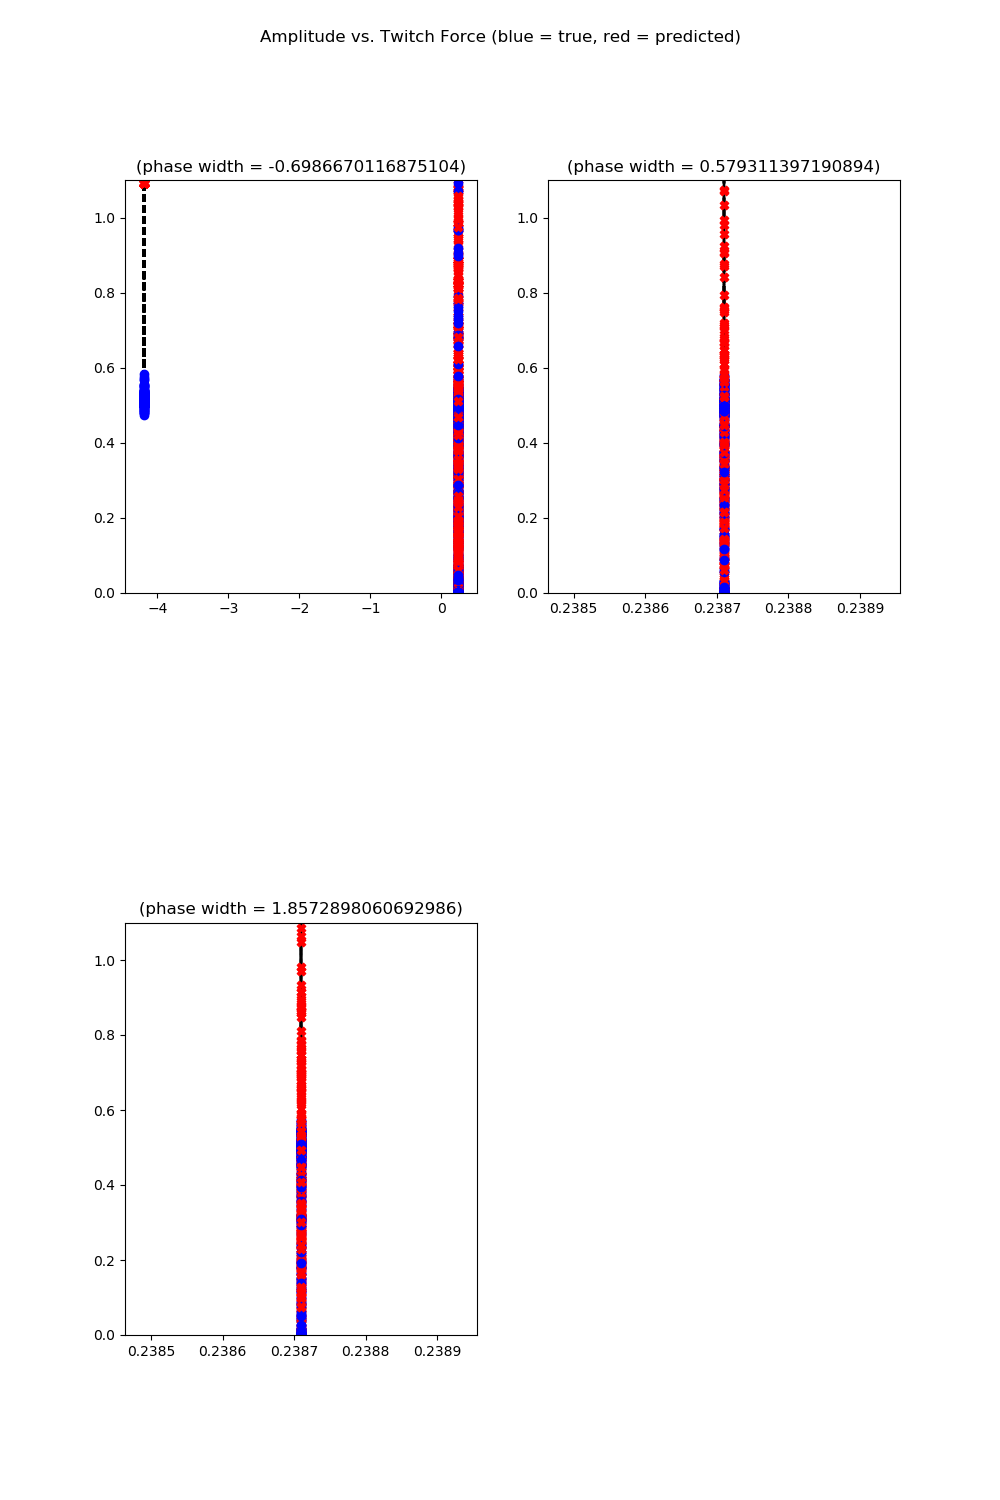
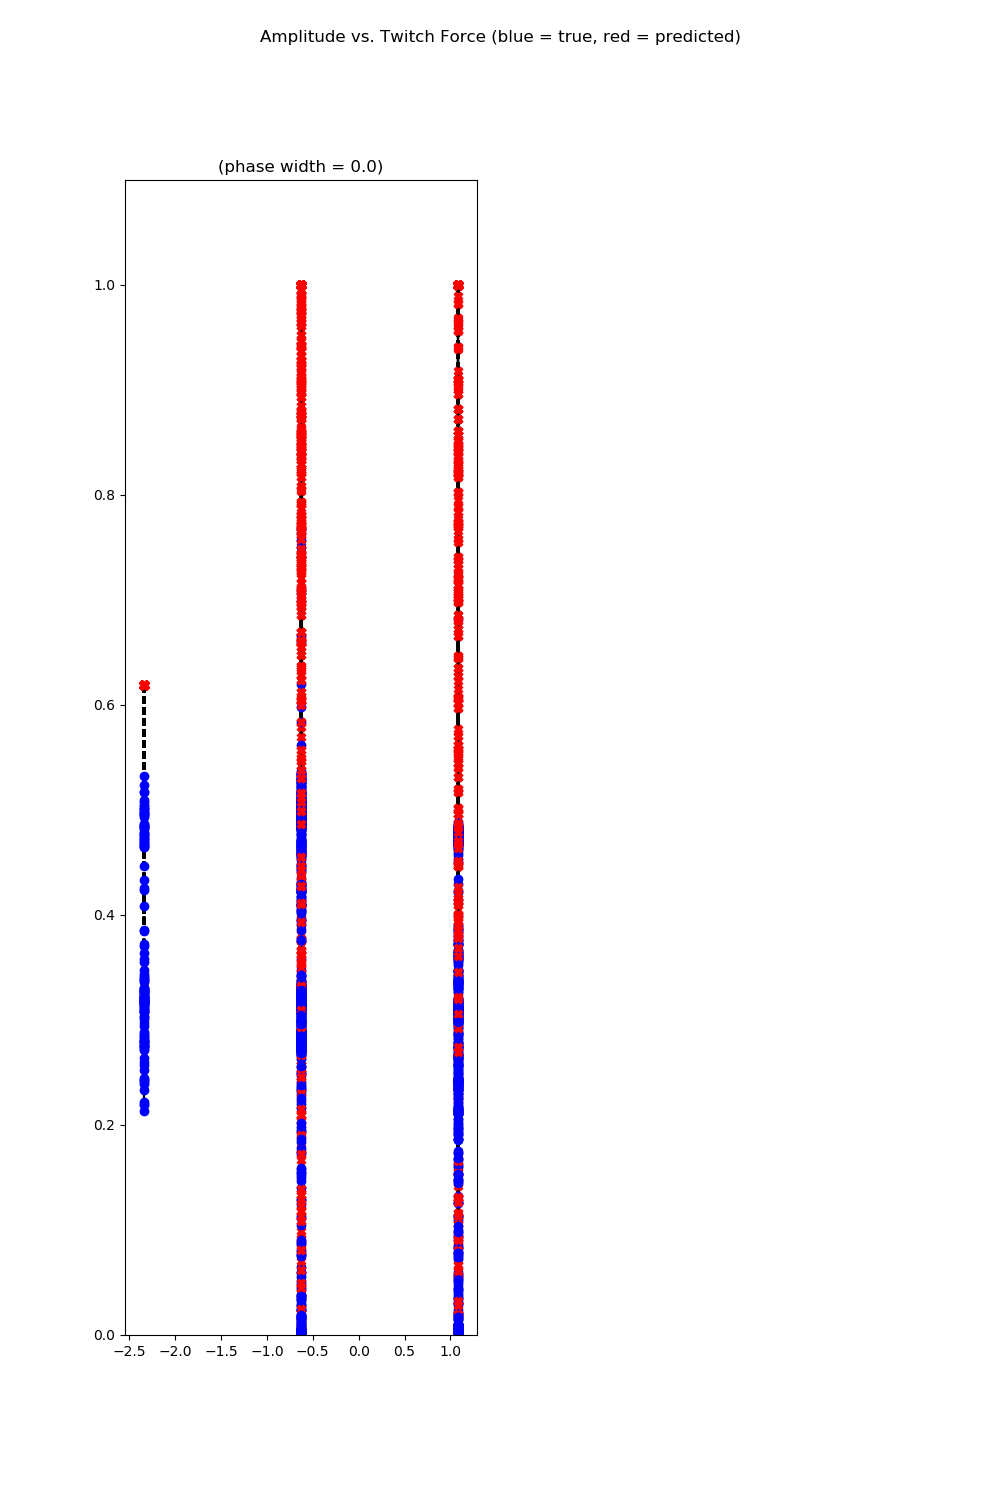
cap pred/truths within [0, 1]

diff --git a/MLP_cap_truth.py b/MLP_cap_truth.py
@@ -1,0 +1,133 @@
+#!/usr/bin/env python
+# coding:
+###
+# General Imports
+import math, csv, random, time
+import numpy as np
+import pandas as pd
+import sklearn
+from sklearn import preprocessing
+import glob
+
+# Model Imports
+from sklearn.neural_network import MLPRegressor
+from sklearn.ensemble import RandomForestRegressor
+from sklearn.svm import SVR
+from sklearn.feature_selection import chi2
+
+#Evaluation Imports
+from sklearn.metrics import mean_squared_error, mean_absolute_error
+from sklearn.model_selection import train_test_split, GridSearchCV
+
+import matplotlib.pyplot as plt
+
+# Directory with CSV files
+data_dir = "data"
+
+### Load data from csv file
+def loadCsv(filename):
+    lines = csv.reader(open(filename, newline= '', encoding='utf-8-sig'), delimiter=',', quotechar='|')
+    dataset = []
+    for row in lines:
+        if row[12] != "": # checking if the last cell in each row (column 12) is not empty
+            dataset.append([float(x) for x in row])
+    return dataset
+
+### Construct data frame
+def data(filename, scale):
+
+    #Load data from file
+    dataset = np.array(loadCsv(filename))
+    
+    n = len(dataset[0])
+    for i in range(n):
+        if dataset[i][1] == 0 or dataset[i][1] == 9:
+            dataset = np.delete(dataset, i, 0) # deleting row
+    dataset = np.delete(dataset,0,1) # deleting column 0
+    dataset = np.delete(dataset,10,1) # deleting column 11
+    nn = len(dataset[0])
+    X = np.array(dataset[:, :nn-1])
+    y = np.array(dataset[:, nn-1])
+
+    # Cap ground truth within [0, 1]
+    for i, truth in enumerate(y):
+        if truth > 1:
+            y[i] = 1
+        if truth < 0:
+            y[i] = 0
+
+    #Standardize and scale data
+    if (scale):
+        X = preprocessing.scale(X)
+    return X, y
+
+### Evaluate model
+def evaluate(model_id, X_train, y_train, X_test, y_test, seed=42):
+
+    print("Fitting model parameters on training set")
+    t0 = time.time()
+    grid = {'activation': ['identity','logistic', 'tanh', 'relu'], 'learning_rate': ['constant', 'invscaling', 'adaptive'],
+    'hidden_layer_sizes': [(10, ), (20, ), (30, ), (40, ), (50, ), (10, 10, ), (20, 10, )], }
+    clf = GridSearchCV(MLPRegressor(max_iter = 1000, solver = 'lbfgs' , random_state=seed), param_grid=grid, cv=5, iid=False, scoring='neg_mean_squared_error')
+    clf.fit(X_train, y_train)
+    print("done in %0.3fs" % (time.time() - t0))
+    print("\nBest estimator found by grid search:")
+    print('\t'+str(clf.best_estimator_))
+
+    print("\nEvaluating best estimator on test set")
+    t0 = time.time()
+    y_pred = clf.predict(X_test)
+    print("done in %0.3fs" % (time.time() - t0))
+
+    score = round(mean_absolute_error(y_test, y_pred), 4)
+    print('\n\t\tMAE (test):', score)
+
+    scores.append(scores)
+
+    #Plot predicted vs. true twitch force per phase width
+    widths = np.unique(X_test[:,1])
+    plt.figure(figsize=(10, 15))
+    plt.suptitle('Amplitude vs. Twitch Force (blue = true, red = predicted)')
+    for w in range(len(widths)):
+        p = plt.subplot(math.ceil(len(widths)/2), 2, w+1)
+        axes = plt.gca()
+        axes.set_ylim(0, 1.1)
+        for i in range (len(y_test)):
+            if X_test[i,1] == widths[w]:
+                plt.plot([X_test[i,0], X_test[i,0]], [y_pred[i], y_test[i]], color='black', linestyle='dashed', zorder=1)
+                plt.scatter(X_test[i,0], y_test[i], marker='o', color='blue', zorder=2)
+                plt.scatter(X_test[i,0], y_pred[i], marker='X', color='red', zorder=2)
+        p.title.set_text('(phase width = '+str(widths[w])+')')
+    plt.subplots_adjust(hspace=.8)
+    plt.savefig("plots.png")
+
+# ### Methods to run:
+
+scores = []
+test_files = [] #corresponding order with scores
+
+for test_file in glob.iglob(data_dir + '/*.csv'):
+    test_files.append(test_file)
+    print(f"Starting training with held-out test file: {test_file}")
+    train_X = None
+    train_y = None
+    test_X, test_y = data(test_file, True)
+    for filepath in glob.iglob(data_dir + '/*.csv'):
+        if filepath != test_file:
+            
+            file_X, file_y = data(filepath, True)
+            if train_X is not None:
+                train_X = np.concatenate((train_X, file_X))
+                train_y = np.concatenate((train_y, file_y))
+            else:
+                train_X = file_X
+                train_y = file_y
+            print(f"Added {filepath} to training set")
+    evaluate(id, train_X, train_y, test_X, test_y, 42)
+
+for test_file, score in zip(test_files, scores):
+    print(f"MAE {score} for held-out test subject {test_file}")
+
+
+
+ # average through all files

diff --git a/GPR_cap_pred.py b/GPR_cap_pred.py
@@ -1,0 +1,130 @@
+#!/usr/bin/env python
+# coding:
+###
+# General Imports
+import math, csv, random, time
+import numpy as np
+import pandas as pd
+import sklearn
+from sklearn import preprocessing
+import glob
+
+# Model Imports
+from sklearn.neural_network import MLPRegressor
+from sklearn.ensemble import RandomForestRegressor
+from sklearn.svm import SVR
+from sklearn.feature_selection import chi2
+from sklearn.gaussian_process import GaussianProcessRegressor
+from sklearn.gaussian_process.kernels import ConstantKernel, RBF, RationalQuadratic, ExpSineSquared
+
+
+#Evaluation Imports
+from sklearn.metrics import mean_squared_error, mean_absolute_error
+from sklearn.model_selection import train_test_split, GridSearchCV
+
+import matplotlib.pyplot as plt
+
+# Directory with CSV files
+data_dir = "data"
+
+### Load data from csv file
+def loadCsv(filename):
+    lines = csv.reader(open(filename, newline= '', encoding='utf-8-sig'), delimiter=',', quotechar='|')
+    dataset = []
+    for row in lines:
+        if row[12] != "": # checking if the last cell in each row (column 12) is not empty
+            dataset.append([float(x) for x in row])
+    return dataset
+
+### Construct data frame
+def data(filename, scale):
+
+    #Load data from file
+    dataset = np.array(loadCsv(filename))
+    
+    n = len(dataset[0])
+    for i in range(n):
+        if dataset[i][1] == 0 or dataset[i][1] == 9:
+            dataset = np.delete(dataset, i, 0) # deleting row
+    dataset = np.delete(dataset,0,1) # deleting column 0
+    dataset = np.delete(dataset,11,1) # deleting column 11
+    nn = len(dataset[0])
+    X = np.array(dataset[:, :nn-1])
+    y = np.array(dataset[:, nn-1])
+    
+    #Standardize and scale data
+    if (scale):
+        X = preprocessing.scale(X)
+    return X, y
+
+### Evaluate model
+def evaluate(model_id, X_train, y_train, X_test, y_test, seed=42):
+
+    print("Fitting model parameters on training set")
+    t0 = time.time()
+
+    model = GaussianProcessRegressor()
+    
+    model.fit(X_train, y_train)
+    print("done in %0.3fs" % (time.time() - t0))
+
+    print("\nEvaluating model on test set")
+    t0 = time.time()
+    y_pred = model.predict(X_test)
+    # cap predictions within [0, 1]
+    for i, pred in enumerate(y_pred):
+        if pred > 1:
+            y_pred[i] = 1
+        if pred < 0:
+            y_pred[i] = 0
+    print("done in %0.3fs" % (time.time() - t0))
+
+    score = round(mean_absolute_error(y_test, y_pred), 4)
+    print('\n\t\tMAE (test):', score)
+
+    scores.append(score)
+
+    #Plot predicted vs. true twitch force per phase width
+    widths = np.unique(X_test[:,1])
+    plt.figure(figsize=(10, 15))
+    plt.suptitle('Amplitude vs. Twitch Force (blue = true, red = predicted)')
+    for w in range(len(widths)):
+        p = plt.subplot(math.ceil(len(widths)/2), 2, w+1)
+        axes = plt.gca()
+        axes.set_ylim(0, 1.1)
+        for i in range (len(y_test)):
+            if X_test[i,1] == widths[w]:
+                plt.plot([X_test[i,0], X_test[i,0]], [y_pred[i], y_test[i]], color='black', linestyle='dashed', zorder=1)
+                plt.scatter(X_test[i,0], y_test[i], marker='o', color='blue', zorder=2)
+                plt.scatter(X_test[i,0], y_pred[i], marker='X', color='red', zorder=2)
+        p.title.set_text('(phase width = '+str(widths[w])+')')
+    plt.subplots_adjust(hspace=.8)
+    plt.savefig("plots.png")
+
+# ### Methods to run:
+
+scores = []
+test_files = [] #corresponding order with scores
+
+for test_file in glob.iglob(data_dir + '/*.csv'):
+    test_files.append(test_file)
+    print(f"Starting training with held-out test file: {test_file}")
+    train_X = None
+    train_y = None
+    test_X, test_y = data(test_file, True)
+    for filepath in glob.iglob(data_dir + '/*.csv'):
+        if filepath != test_file:
+            file_X, file_y = data(filepath, True)
+            if train_X is not None:
+                train_X = np.concatenate((train_X, file_X))
+                train_y = np.concatenate((train_y, file_y))
+            else:
+                train_X = file_X
+                train_y = file_y
+            print(f"Added {filepath} to training set")
+    evaluate(id, train_X, train_y, test_X, test_y, 42)
+
+for test_file, score in zip(test_files, scores):
+    print(f"MAE {score} for held-out test subject {test_file}")
+
+ # average through all files

diff --git a/GPR_cap_truth.py b/GPR_cap_truth.py
@@ -1,0 +1,129 @@
+#!/usr/bin/env python
+# coding:
+###
+# General Imports
+import math, csv, random, time
+import numpy as np
+import pandas as pd
+import sklearn
+from sklearn import preprocessing
+import glob
+
+# Model Imports
+from sklearn.neural_network import MLPRegressor
+from sklearn.ensemble import RandomForestRegressor
+from sklearn.svm import SVR
+from sklearn.feature_selection import chi2
+from sklearn.gaussian_process import GaussianProcessRegressor
+from sklearn.gaussian_process.kernels import ConstantKernel, RBF, RationalQuadratic, ExpSineSquared
+
+
+#Evaluation Imports
+from sklearn.metrics import mean_squared_error, mean_absolute_error
+from sklearn.model_selection import train_test_split, GridSearchCV
+
+import matplotlib.pyplot as plt
+
+# Directory with CSV files
+data_dir = "data"
+
+### Load data from csv file
+def loadCsv(filename):
+    lines = csv.reader(open(filename, newline= '', encoding='utf-8-sig'), delimiter=',', quotechar='|')
+    dataset = []
+    for row in lines:
+        if row[12] != "": # checking if the last cell in each row (column 12) is not empty
+            dataset.append([float(x) for x in row])
+    return dataset
+
+### Construct data frame
+def data(filename, scale):
+
+    #Load data from file
+    dataset = np.array(loadCsv(filename))
+    
+    n = len(dataset[0])
+    for i in range(n):
+        if dataset[i][1] == 0 or dataset[i][1] == 9:
+            dataset = np.delete(dataset, i, 0) # deleting row
+    dataset = np.delete(dataset,0,1) # deleting column 0
+    dataset = np.delete(dataset,11,1) # deleting column 11
+    nn = len(dataset[0])
+    X = np.array(dataset[:, :nn-1])
+    y = np.array(dataset[:, nn-1])
+    # Cap ground truth within [0, 1]
+    for i, truth in enumerate(y):
+        if truth > 1:
+            y[i] = 1
+        if truth < 0:
+            y[i] = 0
+    #Standardize and scale data
+    if (scale):
+        X = preprocessing.scale(X)
+    return X, y
+
+### Evaluate model
+def evaluate(model_id, X_train, y_train, X_test, y_test, seed=42):
+
+    print("Fitting model parameters on training set")
+    t0 = time.time()
+
+    model = GaussianProcessRegressor()
+    
+    model.fit(X_train, y_train)
+    print("done in %0.3fs" % (time.time() - t0))
+
+    print("\nEvaluating model on test set")
+    t0 = time.time()
+    y_pred = model.predict(X_test)
+    print("done in %0.3fs" % (time.time() - t0))
+
+    score = round(mean_absolute_error(y_test, y_pred), 4)
+    print('\n\t\tMAE (test):', score)
+
+    scores.append(score)
+
+    #Plot predicted vs. true twitch force per phase width
+    widths = np.unique(X_test[:,1])
+    plt.figure(figsize=(10, 15))
+    plt.suptitle('Amplitude vs. Twitch Force (blue = true, red = predicted)')
+    for w in range(len(widths)):
+        p = plt.subplot(math.ceil(len(widths)/2), 2, w+1)
+        axes = plt.gca()
+        axes.set_ylim(0, 1.1)
+        for i in range (len(y_test)):
+            if X_test[i,1] == widths[w]:
+                plt.plot([X_test[i,0], X_test[i,0]], [y_pred[i], y_test[i]], color='black', linestyle='dashed', zorder=1)
+                plt.scatter(X_test[i,0], y_test[i], marker='o', color='blue', zorder=2)
+                plt.scatter(X_test[i,0], y_pred[i], marker='X', color='red', zorder=2)
+        p.title.set_text('(phase width = '+str(widths[w])+')')
+    plt.subplots_adjust(hspace=.8)
+    plt.savefig("plots.png")
+
+# ### Methods to run:
+
+scores = []
+test_files = [] #corresponding order with scores
+
+for test_file in glob.iglob(data_dir + '/*.csv'):
+    test_files.append(test_file)
+    print(f"Starting training with held-out test file: {test_file}")
+    train_X = None
+    train_y = None
+    test_X, test_y = data(test_file, True)
+    for filepath in glob.iglob(data_dir + '/*.csv'):
+        if filepath != test_file:
+            file_X, file_y = data(filepath, True)
+            if train_X is not None:
+                train_X = np.concatenate((train_X, file_X))
+                train_y = np.concatenate((train_y, file_y))
+            else:
+                train_X = file_X
+                train_y = file_y
+            print(f"Added {filepath} to training set")
+    evaluate(id, train_X, train_y, test_X, test_y, 42)
+
+for test_file, score in zip(test_files, scores):
+    print(f"MAE {score} for held-out test subject {test_file}")
+
+ # average through all files
